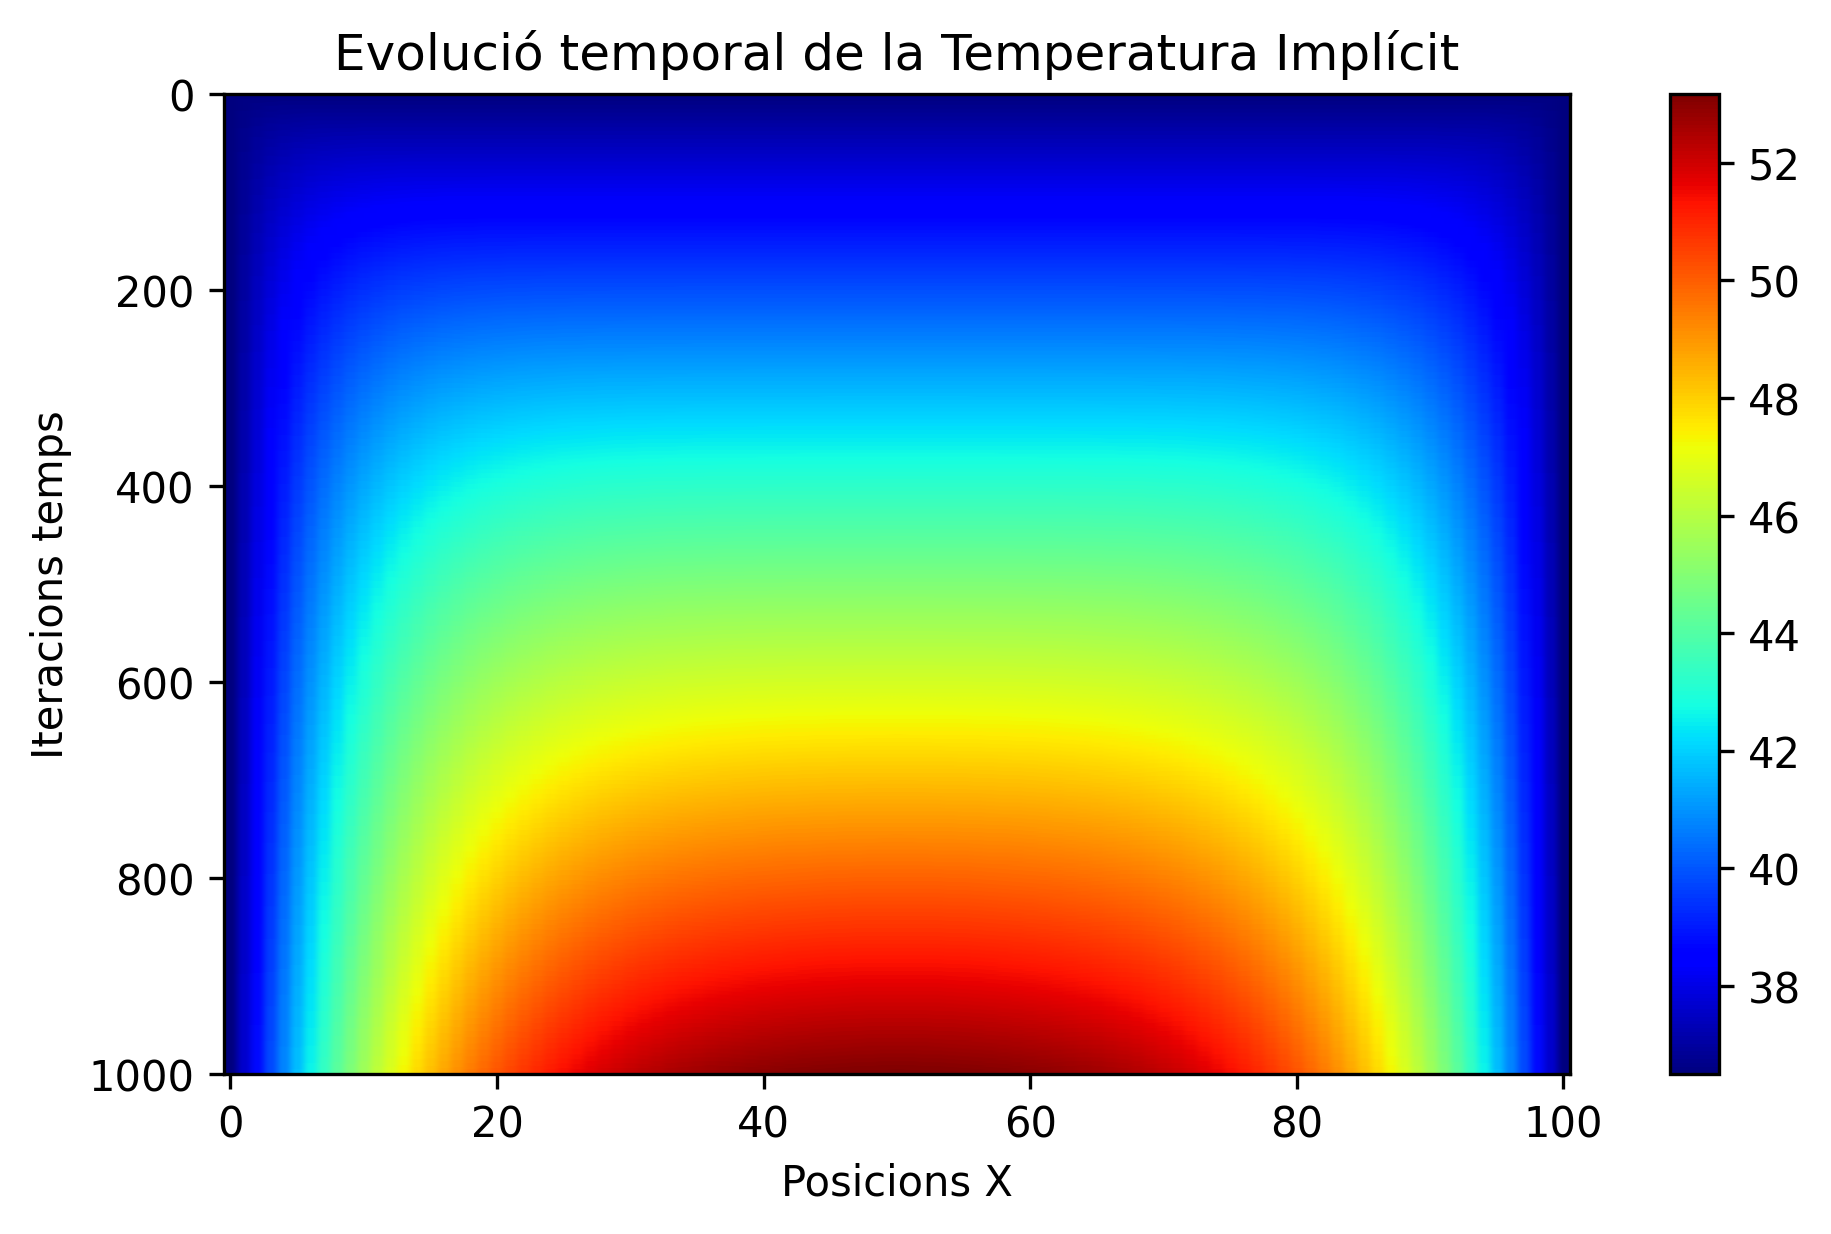
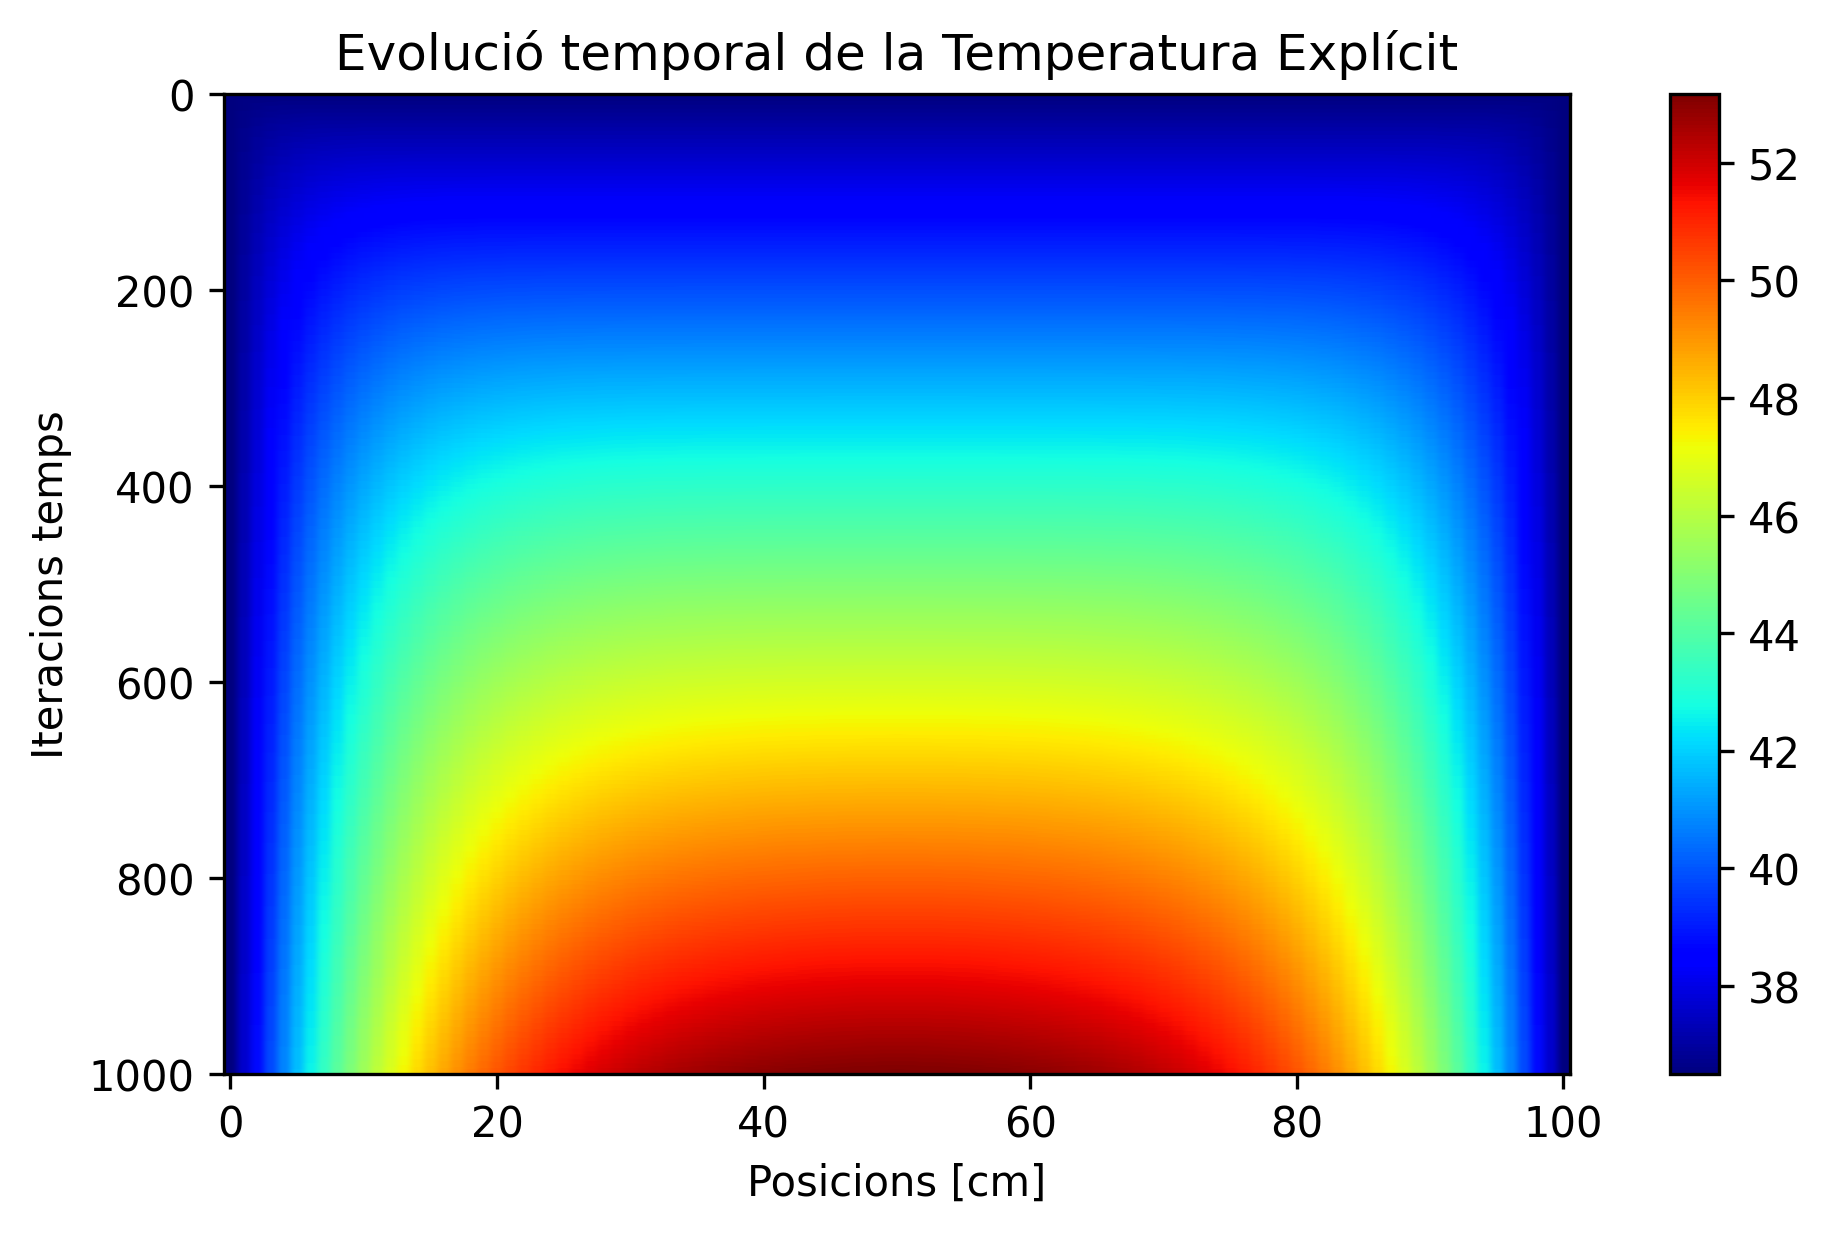
Canvi en els eixos, again

Changed region(s): [[0.1868, 0.0308, 0.8094, 0.0616], [0.4047, 0.9238, 0.5603, 0.9854]]

diff --git a/main.py b/main.py
@@ -210,9 +210,9 @@ def grafiques_animades():
 
     print("Començant animació, tarda aproximadament 1 min 30 s")
     x, T = carregar_posicions_temperatures(
-        f"{settings.fitxer_implicit}_{min(constants.T_implicit)}"
+        f"{settings.fitxer_explicit}_{min(constants.T_explicit)}"
     )
-    create_animation_plot(fig2, ax2, x * 100, T, save_name="implicit")
+    create_animation_plot(fig2, ax2, x * 100, T, save_name="anim_explicit")
 
 
 def troba_limit_conjunt_metodes():
@@ -282,7 +282,7 @@ def main():
     x, T = carregar_posicions_temperatures(
         f"{settings.fitxer_explicit}_{min(constants.T_explicit)}"
     )
-    fig_h, ax_h = mapa_calor(T, metode="Implícit")
+    fig_h, ax_h = mapa_calor(T, metode="Explícit")
     guarda_figura(fig_h, "mapa-calor")
 
     if settings.show_grafiques:

diff --git a/heartless/grafiques.py b/heartless/grafiques.py
@@ -85,7 +85,7 @@ def configura_limits_teixit(ax):
 
 def mapa_calor(
     matriu,
-    eix_x="Posicions X",
+    eix_x="Posicions [cm]",
     eix_y="Iteracions temps",
     titol="Evolució temporal de la Temperatura",
     metode="",
@@ -158,4 +158,4 @@ def create_animation_plot(
 
     ani = FuncAnimation(fig, update, frames=frames_totals, interval=120, blit=True)
 
-    ani.save(settings.grafiques_path + f"/{save_name}.gif", writer="ffmpeg", fps=10)
+    ani.save(settings.grafiques_path + f"/{save_name}.gif", writer="ffmpeg", fps=60)
